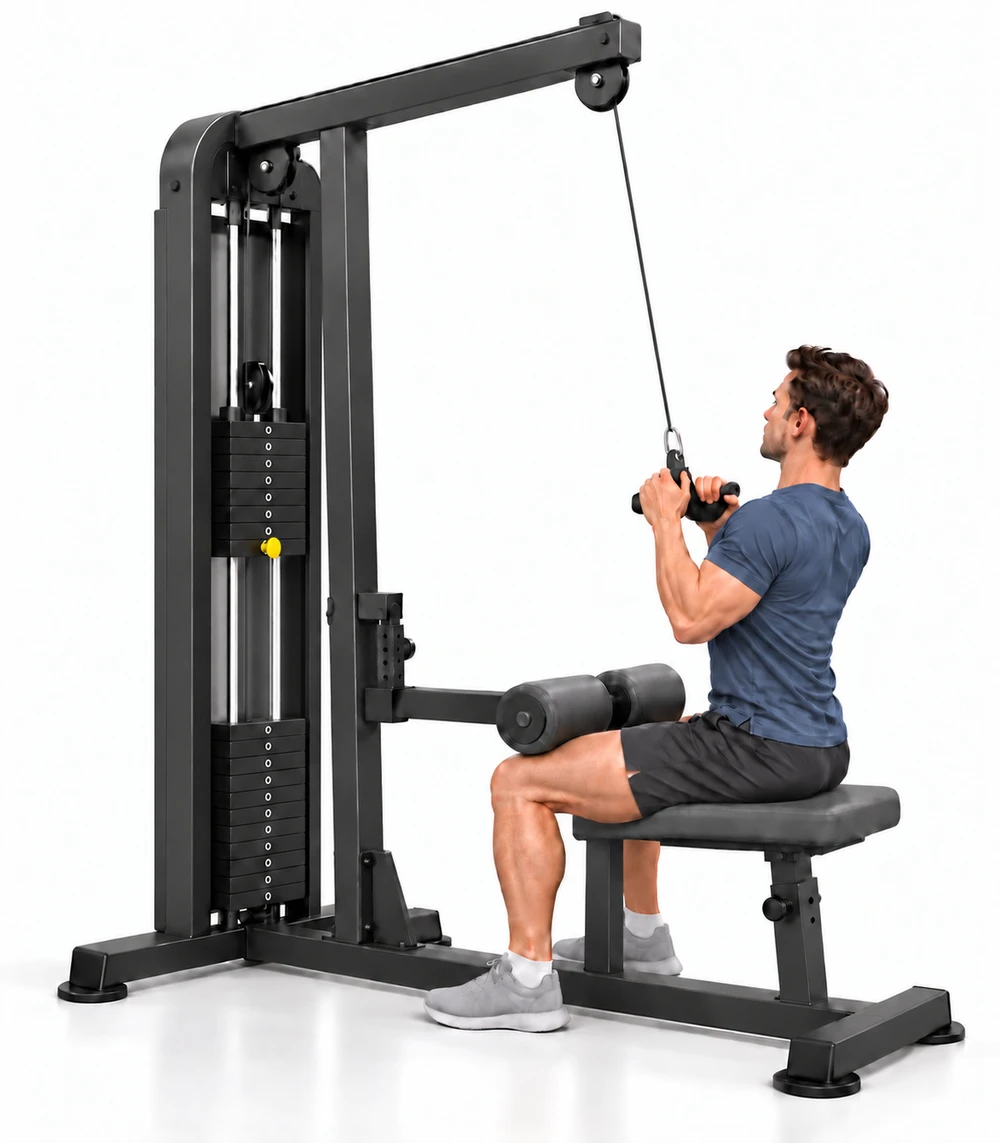
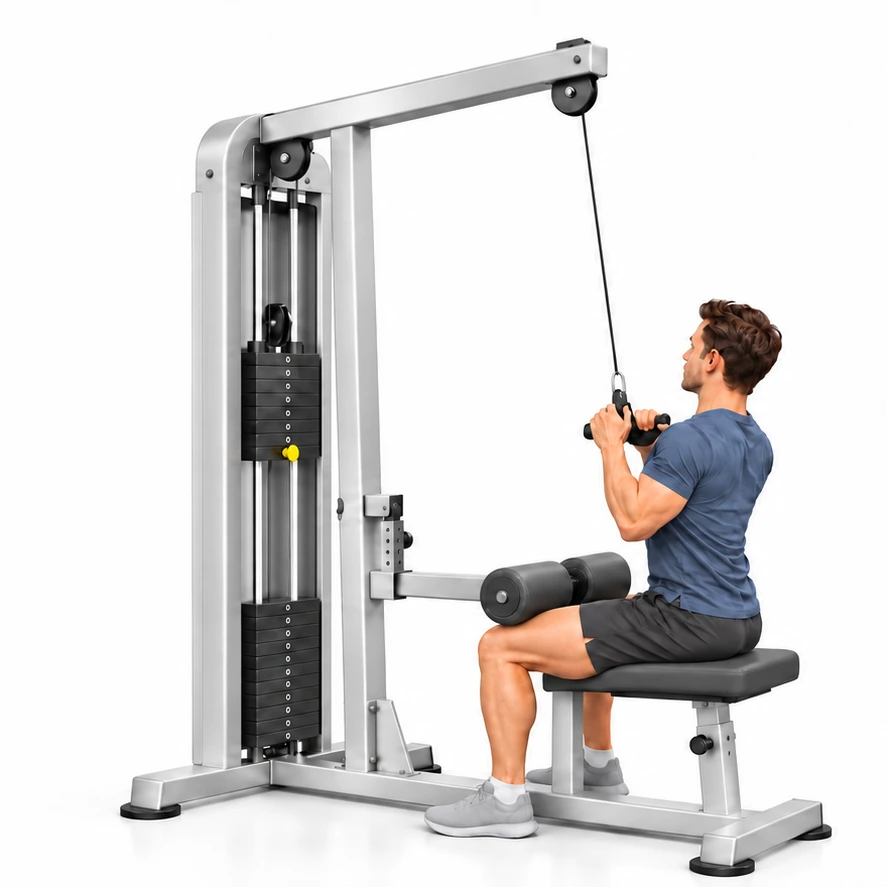
Replace ergonomic pulldown artwork with approved silver-frame pair

diff --git a/docs/superpowers/plans/2026-11-03-ergonomic-pulldown-light-frame.md b/docs/superpowers/plans/2026-11-03-ergonomic-pulldown-light-frame.md
@@ -1,0 +1,36 @@
+# Ergonomic Pulldown Light Frame Implementation Plan
+
+**Goal:** Replace the existing Male ergonomic-handle pair with the user-approved
+silver-frame sheet after removal of its START/FINISH labels.
+
+**Architecture:** Keep existing exact-ID asset paths and shared viewers. Export
+the two square halves of the selected sheet; retain attachment and catalog data.
+
+**Spec:** User approvals in this thread, 2026-11-03; existing
+`docs/EXERCISE_ASSETS.md` and `docs/EXERCISE_LIBRARY.md` contracts.
+
+**Constraints:** No new identity, guide, muscle mapping, runtime logic or data
+migration. No labels, resampling, padding or independent placement. Archive status
+remains pending; actual generation inputs must not be embellished.
+
+## Task 1: Replace and verify the selected pair
+
+- [ ] Export exact LEFT START / RIGHT FINISH RGB WebP92/method6 crops.
+- [ ] Update the existing manifest and retain prior metadata as superseded.
+- [ ] Record exact prompts, input/output hashes, selection and open visual QA.
+- [ ] Synchronize the approved appearance and remaining visual-block sequence.
+- [ ] Verify exports, existing resolver/viewer tests, typecheck, lint and formatting.
+- [ ] Open a draft PR, stamp its actual version with `version:pr`, run CI/export
+      checks and mark ready when checks pass. Leave merge to the user.
+
+## Review focus
+
+Check square half-sheet order, full apparatus fit, unchanged attachment bytes and
+exact-ID boundaries, truthful source provenance and remaining device/biomechanics
+limits. Existing tests cover resolver/fallback behavior; no new application logic
+or implementation-mirroring tests are needed for this asset replacement.
+
+## Next preview
+
+Generate the next V-handle pair using its own existing phases, the actual Male
+Master and approved silver equipment reference; show without labels for review.

diff --git a/docs/EXERCISE_ASSETS.md b/docs/EXERCISE_ASSETS.md
@@ -1,5 +1,24 @@
 # CRESUM Exercise Assets — approved production rules
 
+## Ergonomic Pulldown silver-frame replacement — 2026-11-03
+
+User approved the silver-frame preview, requested removal of START/FINISH labels,
+then explicitly approved replacing the old pair. Select
+`exec-6a64b539-ba4f-443b-b68a-20d0c0eb0d70.png`: LEFT START / RIGHT FINISH,
+exact 887-square RGB WebP92/method6 crops with shared contain and no independent
+transforms. Replace only existing Male ergonomic-handle phase files; preserve
+attachment thumbnail, stable identity, guides, muscles, History and fallbacks.
+Retain superseded dark-frame metadata, exact two-call prompts and actual hashes.
+The first call used existing phase images and the equipment-style reference;
+the second used that silver preview. The actual Male Master was not supplied.
+Disclose that reference-rule deviation rather than inventing an input. Generative
+label removal is not a lossless pixel-preserving edit. User-selected-provisional:
+detailed hand/contact anatomy, rigid registration, plate/selector continuity and
+physical-device/accessibility acceptance remain open. No verified Oracle/PC backup.
+Coverage remains 68 pairs / 136 frames across 70 records; this replaces a pair.
+Next: V-handle pulldown silver-frame preview, followed by wide/reverse pulldowns
+and close-neutral seated row. Show future exercise sheets without baked-in labels.
+
 ## Dumbbell Floor Glute Bridge selected Male pair — 2026-11-03
 
 User approved r1 `exec-1a741a4e-250d-4169-98df-17ff2dcc6991.png`.

diff --git a/docs/DESIGN_SYSTEM.md b/docs/DESIGN_SYSTEM.md
@@ -1,5 +1,24 @@
 # CRESUM Design System v1.0
 
+## Ergonomic Pulldown silver-frame replacement — 2026-11-03
+
+User approved the silver-frame preview, requested removal of START/FINISH labels,
+then explicitly approved replacing the old pair. Select
+`exec-6a64b539-ba4f-443b-b68a-20d0c0eb0d70.png`: LEFT START / RIGHT FINISH,
+exact 887-square RGB WebP92/method6 crops with shared contain and no independent
+transforms. Replace only existing Male ergonomic-handle phase files; preserve
+attachment thumbnail, stable identity, guides, muscles, History and fallbacks.
+Retain superseded dark-frame metadata, exact two-call prompts and actual hashes.
+The first call used existing phase images and the equipment-style reference;
+the second used that silver preview. The actual Male Master was not supplied.
+Disclose that reference-rule deviation rather than inventing an input. Generative
+label removal is not a lossless pixel-preserving edit. User-selected-provisional:
+detailed hand/contact anatomy, rigid registration, plate/selector continuity and
+physical-device/accessibility acceptance remain open. No verified Oracle/PC backup.
+Coverage remains 68 pairs / 136 frames across 70 records; this replaces a pair.
+Next: V-handle pulldown silver-frame preview, followed by wide/reverse pulldowns
+and close-neutral seated row. Show future exercise sheets without baked-in labels.
+
 ## Dumbbell Floor Glute Bridge selected Male pair — 2026-11-03
 
 User approved r1 `exec-1a741a4e-250d-4169-98df-17ff2dcc6991.png`.

diff --git a/docs/DECISIONS.md b/docs/DECISIONS.md
@@ -1,5 +1,24 @@
 # CRESUM Decision Log
 
+## Ergonomic Pulldown silver-frame replacement — 2026-11-03
+
+User approved the silver-frame preview, requested removal of START/FINISH labels,
+then explicitly approved replacing the old pair. Select
+`exec-6a64b539-ba4f-443b-b68a-20d0c0eb0d70.png`: LEFT START / RIGHT FINISH,
+exact 887-square RGB WebP92/method6 crops with shared contain and no independent
+transforms. Replace only existing Male ergonomic-handle phase files; preserve
+attachment thumbnail, stable identity, guides, muscles, History and fallbacks.
+Retain superseded dark-frame metadata, exact two-call prompts and actual hashes.
+The first call used existing phase images and the equipment-style reference;
+the second used that silver preview. The actual Male Master was not supplied.
+Disclose that reference-rule deviation rather than inventing an input. Generative
+label removal is not a lossless pixel-preserving edit. User-selected-provisional:
+detailed hand/contact anatomy, rigid registration, plate/selector continuity and
+physical-device/accessibility acceptance remain open. No verified Oracle/PC backup.
+Coverage remains 68 pairs / 136 frames across 70 records; this replaces a pair.
+Next: V-handle pulldown silver-frame preview, followed by wide/reverse pulldowns
+and close-neutral seated row. Show future exercise sheets without baked-in labels.
+
 ## Dumbbell Floor Glute Bridge selected Male pair — 2026-11-03
 
 User approved r1 `exec-1a741a4e-250d-4169-98df-17ff2dcc6991.png`.

diff --git a/docs/ROADMAP.md b/docs/ROADMAP.md
@@ -1,5 +1,15 @@
 # CRESUM — Development Roadmap
 
+## Visual consistency block — approved 2026-11-03
+
+Audit the existing Male illustrations and replace early dark frames with the
+approved silver equipment style, beginning with ergonomic pulldown, then V-handle,
+wide and reverse pulldowns and close-neutral seated row. Preserve exact variants
+and review each pair before integration. Follow with Female Master review, 3–5
+pilot exercises and the full Female set. Prepare the cumulative source archive at
+the visual-block checkpoint; Oracle remains deferred. This is the approved work
+sequence, not a claim that the full audit or Female production is complete.
+
 ## Assisted Dip Machine selected Male pair — 2026-10-31
 
 User approved r2 `exec-bda3c995-8e76-4188-b34e-46184674283b.png`.
